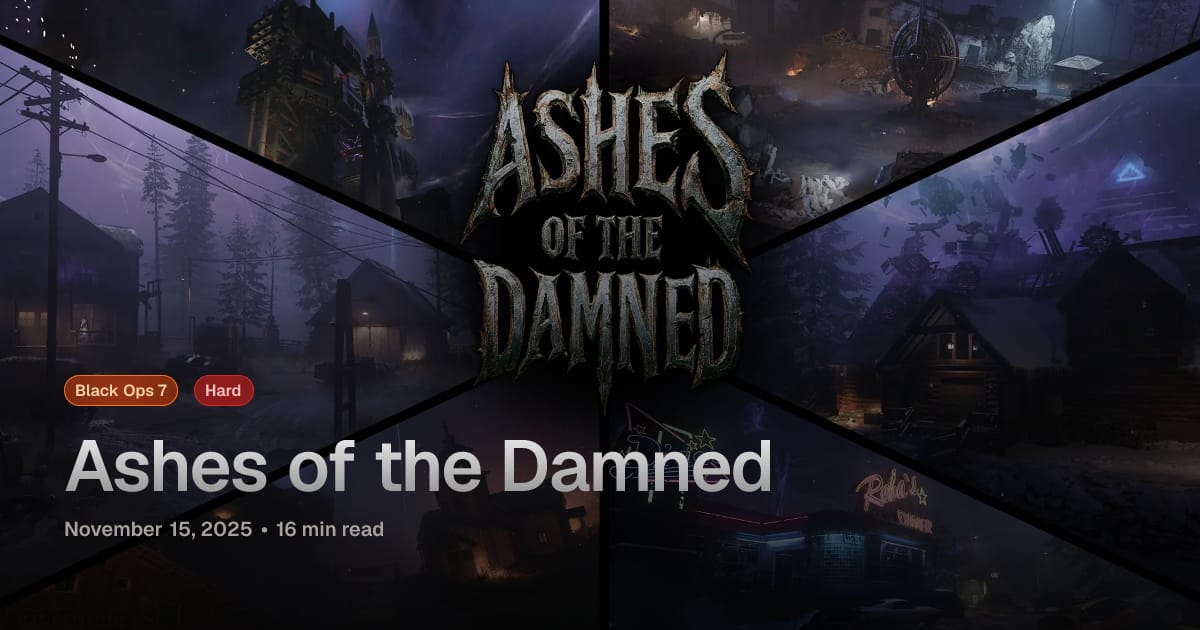
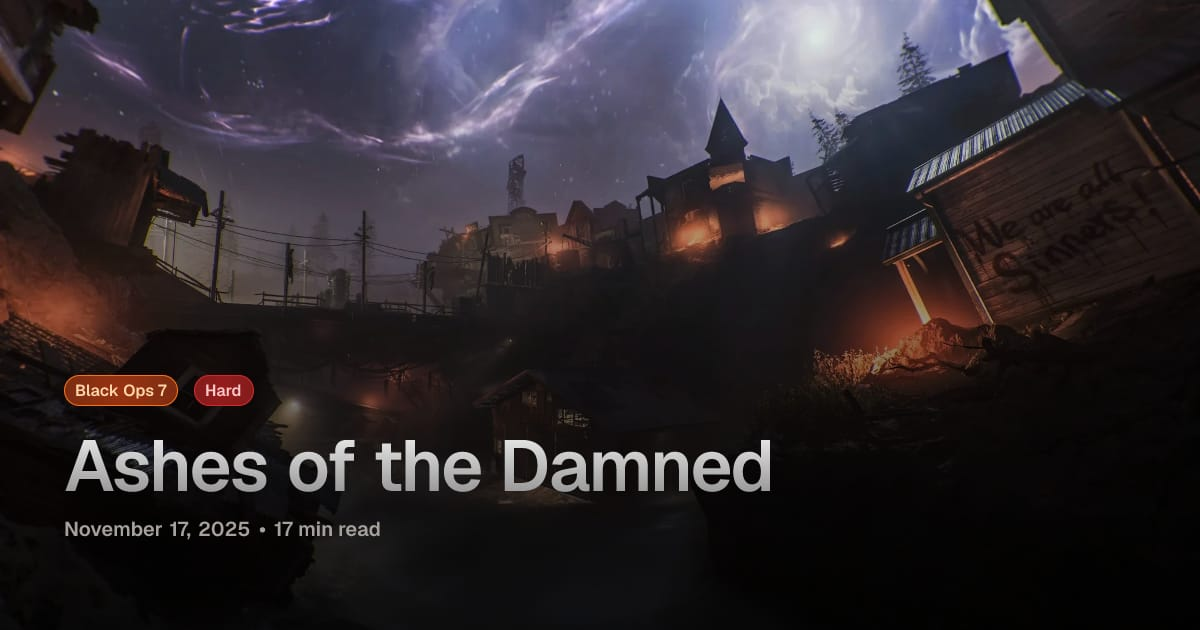
update(og-images): add new og image for Ashes of the Damned to use the new in-game image

diff --git a/scripts/generate-og-images.tsx b/scripts/generate-og-images.tsx
@@ -1,29 +1,31 @@
-import { getMainQuestByMap, type MainQuest } from "@/data/main-quests";
-import { calculateTimeToRead, getLastUpdated } from "@/utils/functions";
-import { FileSystem, Path } from "@effect/platform";
-import { BunFileSystem, BunRuntime } from "@effect/platform-bun";
-import { Effect, Layer, Match, Option } from "effect";
-import { ImageResponse } from "next/og";
-import sharp from "sharp";
+import { FileSystem, Path } from "@effect/platform"
+import { BunFileSystem, BunRuntime } from "@effect/platform-bun"
+import { Effect, Layer, Match, Option } from "effect"
+import { ImageResponse } from "next/og"
+import sharp from "sharp"
+import { getMainQuestByMap, type MainQuest } from "@/data/main-quests"
+import { calculateTimeToRead, getLastUpdated } from "@/utils/functions"
 
 const size = { width: 1200, height: 630 }
 const FsLayer = Layer.merge(BunFileSystem.layer, Path.layer)
 
-const getFonts = Effect.fn("getFonts")(function*(){
+const getFonts = Effect.fn("getFonts")(function* () {
 	const fs = yield* FileSystem.FileSystem
 	const path = yield* Path.Path
 	const [geistSemiBold, geistBold] = yield* Effect.all(
-			[
-				fs.readFile(path.join(process.cwd(), "assets/Geist-SemiBold.otf")),
-				fs.readFile(path.join(process.cwd(), "assets/Geist-Bold.otf")),
-			],
-			{ concurrency: "unbounded" },
-		)
+		[
+			fs.readFile(path.join(process.cwd(), "assets/Geist-SemiBold.otf")),
+			fs.readFile(path.join(process.cwd(), "assets/Geist-Bold.otf")),
+		],
+		{ concurrency: "unbounded" },
+	)
 
-		return { geistSemiBold, geistBold }
+	return { geistSemiBold, geistBold }
 })
 
-export const generateMainQuestImage = Effect.fn("generateMainQuestImage")(function*(mainQuest: MainQuest){
+export const generateMainQuestImage = Effect.fn("generateMainQuestImage")(function* (
+	mainQuest: MainQuest,
+) {
 	const fs = yield* FileSystem.FileSystem
 	const path = yield* Path.Path
 	const contentPath = path.join(process.cwd(), `./content/main-quests/${mainQuest.id}.mdx`)
@@ -36,30 +38,31 @@ export const generateMainQuestImage = Effect.fn("generateMainQuestImage")(functi
 
 	const mapImage = yield* Effect.tryPromise({
 		try: () => sharp(mapBuffer).jpeg({ mozjpeg: true, quality: 100 }).toBuffer(),
-		catch: error => new Error(`Failed to generate map image`, { cause: error })
+		catch: error => new Error(`Failed to generate map image`, { cause: error }),
 	})
 
 	const difficultyCSS: React.CSSProperties = Option.match(mainQuest.difficulty, {
 		onNone: () => ({}),
-		onSome: (difficulty) => Match.value(difficulty).pipe(
-			Match.when("Easy", () => ({
-				color: "hsl(169 83.8% 78.2%)",
-				backgroundImage:
-					"radial-gradient(circle at top, hsl(176 69.4% 21.8%), hsl(176 60.8% 19%))",
-				border: "1px solid hsl(175 83.9% 31.6%)",
-			})),
-			Match.when("Medium", () => ({
-				color: "hsl(53 98.3% 76.9%)",
-				backgroundImage: "radial-gradient(circle at top, hsl(32 81% 28.8%), hsl(28 72.5% 25.7%))",
-				border: "1px solid hsl(41 96.1% 40.4%)",
-			})),
-			Match.when("Hard", () => ({
-				color: "hsl(0 96.3% 89.4%)",
-				backgroundImage: "radial-gradient(circle at top, hsl(0 70% 35.3%), hsl(0 62.8% 30.6%))",
-				border: "1px solid hsl(0 72.2% 50.6%)",
-			})),
-			Match.exhaustive
-		)
+		onSome: difficulty =>
+			Match.value(difficulty).pipe(
+				Match.when("Easy", () => ({
+					color: "hsl(169 83.8% 78.2%)",
+					backgroundImage:
+						"radial-gradient(circle at top, hsl(176 69.4% 21.8%), hsl(176 60.8% 19%))",
+					border: "1px solid hsl(175 83.9% 31.6%)",
+				})),
+				Match.when("Medium", () => ({
+					color: "hsl(53 98.3% 76.9%)",
+					backgroundImage: "radial-gradient(circle at top, hsl(32 81% 28.8%), hsl(28 72.5% 25.7%))",
+					border: "1px solid hsl(41 96.1% 40.4%)",
+				})),
+				Match.when("Hard", () => ({
+					color: "hsl(0 96.3% 89.4%)",
+					backgroundImage: "radial-gradient(circle at top, hsl(0 70% 35.3%), hsl(0 62.8% 30.6%))",
+					border: "1px solid hsl(0 72.2% 50.6%)",
+				})),
+				Match.exhaustive,
+			),
 	})
 
 	const imageResponse = new ImageResponse(
@@ -75,9 +78,11 @@ export const generateMainQuestImage = Effect.fn("generateMainQuestImage")(functi
 				backgroundColor: "black",
 			}}
 		>
+			{/*biome-ignore lint/performance/noImgElement: next/image is not supported in this context*/}
 			<img
 				// @ts-expect-error: Satori supports ArrayBuffers as values to the src property
 				src={mapImage.buffer}
+				alt={mainQuest.map.title}
 				width={1200}
 				height={630}
 				style={{
@@ -137,7 +142,7 @@ export const generateMainQuestImage = Effect.fn("generateMainQuestImage")(functi
 						>
 							{difficulty}
 						</span>
-					)
+					),
 				})}
 			</div>
 			<h1
@@ -181,52 +186,53 @@ export const generateMainQuestImage = Effect.fn("generateMainQuestImage")(functi
 				<span>&bull;</span>
 				<span>{timeToRead} min read</span>
 			</div>
-		</div>
-	,
-	{
-		fonts: fonts
-		? [
-				{
-					name: "Geist-SemiBold",
-					data: Buffer.from(fonts.geistSemiBold),
-					style: "normal",
-					weight: 600,
-				},
-				{
-					name: "Geist-Bold",
-					data: Buffer.from(fonts.geistBold),
-					style: "normal",
-					weight: 700,
-				},
-			]
-		: undefined,
-	...size,
-	})
+		</div>,
+		{
+			fonts: fonts
+				? [
+						{
+							name: "Geist-SemiBold",
+							data: Buffer.from(fonts.geistSemiBold),
+							style: "normal",
+							weight: 600,
+						},
+						{
+							name: "Geist-Bold",
+							data: Buffer.from(fonts.geistBold),
+							style: "normal",
+							weight: 700,
+						},
+					]
+				: undefined,
+			...size,
+		},
+	)
 
 	const imageBuffer = yield* Effect.tryPromise({
 		try: () => imageResponse.arrayBuffer(),
-		catch: error => new Error("Failed to get array buffer", { cause: error })
+		catch: error => new Error("Failed to get array buffer", { cause: error }),
 	})
 
 	const optimizedBuffer = yield* Effect.tryPromise({
 		try: () => sharp(imageBuffer).jpeg({ mozjpeg: true, quality: 80 }).toBuffer(),
-		catch: error => new Error("Failed to optimize image", { cause: error })
+		catch: error => new Error("Failed to optimize image", { cause: error }),
 	})
 
 	return optimizedBuffer
 })
 
-const program = Effect.gen(function*(){
+const program = Effect.gen(function* () {
 	const fs = yield* FileSystem.FileSystem
 	const path = yield* Path.Path
 	const quest = getMainQuestByMap("ashes-of-the-damned")
 	if (!quest) return yield* Effect.fail("Quest not found")
 
 	const ogImage = yield* generateMainQuestImage(quest)
-	yield* fs.writeFile(path.join(process.cwd(), "public", `opengraph-images/main-quests/og-${quest.map.id}.jpg`), new Uint8Array(ogImage))
+	yield* fs.writeFile(
+		path.join(process.cwd(), "public", `opengraph-images/main-quests/og-${quest.map.id}.jpg`),
+		new Uint8Array(ogImage),
+	)
 	yield* Effect.log(`Generated og image for ${quest.map.id}`)
-}).pipe(
-	Effect.provide(FsLayer)
-)
+}).pipe(Effect.provide(FsLayer))
 
 BunRuntime.runMain(program)
